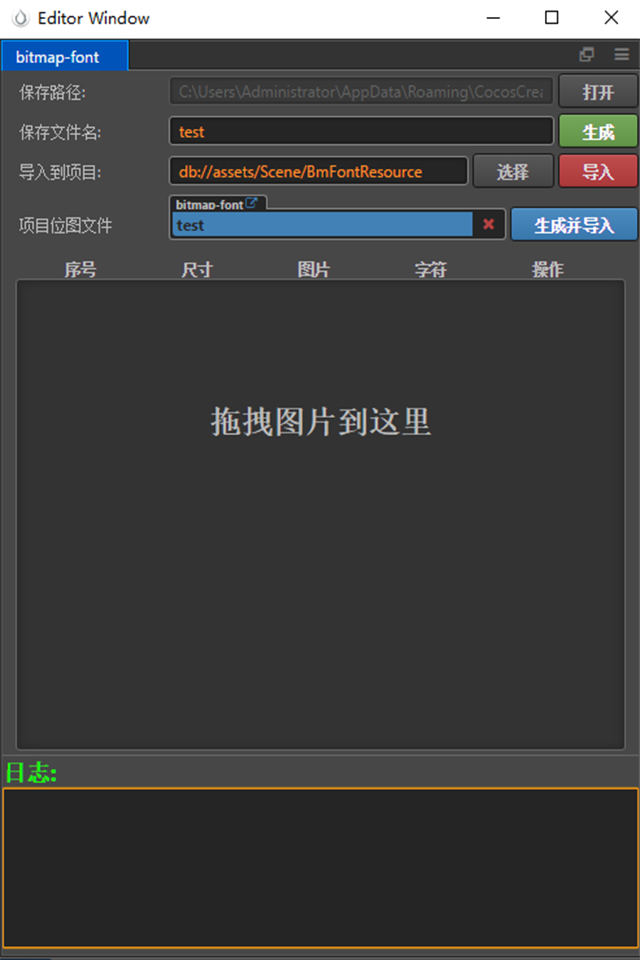
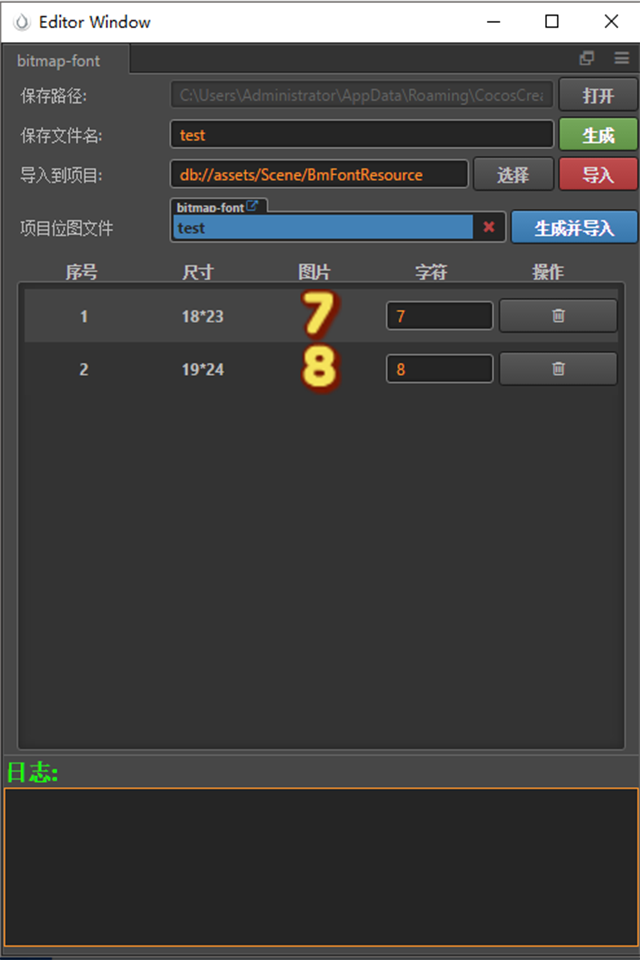
更新bmfont的文档

diff --git a/docs/bitmap-font/README.md b/docs/bitmap-font/README.md
@@ -1,65 +1,33 @@
 # 说明
 游戏开发中经常会碰到制作BMFont字体的需求,市面上有很多专门的工具都在解决这个问题
-1. BMFont
+1. BMFont(交互挺糟心的！)
 2. Glyph Designer2（Mac+Win32）
-3. bmGlyph（Mac 68元）
-4. ShoeBox 的位图功能
+3. bmGlyph（Mac 68元，每天穷醒的路过）
+4. ShoeBox
+5. Littera
 
-作者本身仅仅使用过BMFont,不得不吐槽下这个工具的交互,导入图片,指定ANSCII码,每次制作BMFont字体都特别麻烦
+## 插件特色
 
-所以插件本身就是在简化指定ANSCII码的操作,并简单的和creator进行了工作流整合,插件功能比较薄弱,但是能简单满足制作bmfont的一些需求,后续功能追加还需要时间去打磨完善.
+参考了大量的市面主流同类型软件，结合cocos creator进行了深度定制，包含了小王子的满满诚意！
 
+- 支持使用字符图片生成font位图文件，使用更简单，so easy! [点击跳转到使用文档](./Image.md)
 ![](../../assets/bmfont/scene2.png)
-# 使用
-打开菜单：**扩展**=》**BitMap字体工具**
 
-在UI界面上可以看到几个需要填写的参数
-- 存放路径:生成的fnt,png图片保存的位置,为了方便起见,插件默认指定了一个位置
-- 保存文件名: 生成的fnt,png的文件名
-- 导入到项目: 这个参数必须指定在项目的assets目录下,'导入'操作就是将生成的png,fnt导入到指定的项目位置
-- 项目位图文件: 更新项目位图文件时使用,和creator无缝对接使用
-
-# 动态图教程
-## 当生成单独的位图文件时
-![](../../assets/bmfont/gen1.gif)
-## 当和creator配合使用,更新项目位图文件时
-![](../../assets/bmfont/gen2.gif)
-
-## 彩蛋
-- 插件对你导入的图片,按照字母或者数字顺序进行了简单的排序,这样方便你查看,符合人的阅读习惯,记住,排序的前提是你对图片名字进行了有规律的命名
-- 输入bitmap的字符时,插件进行了字符校验,比如你输入了11322324,那么插件永远只会截取第一个字符1,之后的都会被忽略,至于为什么,你需要了解下什么是bitmap-font!
+- 支持使用ttf字体文件生成font位图文件，重点支持了对字体进行描边、阴影、模糊、纹理等功能，别人有的咱也不能落下！[点击跳转到使用文档](./ttf.md)
+![](../../assets/bmfont/scene4.png)
 
 
-## 如何导入位图?
-在插件中间区域就是导入的位图字体信息,导入一张图片,只需要拖拽图片到该区域即可   
-需要注意的是
-- 目前插件只能识别png图片,如果指定重复路径的图片文件,那么插件将不会导入.
-- 只能导入非项目图片，所以，请不要把单个位图导入到项目中，然后再拖入到插件，这样是识别不到的
-
-## 导入位图之后
-导入位图之后,可以在列表中看到该图片的详细信息,在字符一栏可以输入该图片对应的字符,在输入完毕字符后,插件会自动进行校验,如果是空字符或者输入了重复的字符,那么字符栏颜色会变红,方便识别问题
-
-## 如何删除字符
-- 如果不小心导入了其他图片,那么可以在操作列点击**删除**按钮,或者在该行任意位置**右键=>删除** 进行删除
-- 删除全部: **右键=> 删除全部** 会删除当前拖入的所有字符图片
+# 常见问题
 
 ## 为什么我生成的bmfont文件不能使用？
 bmfont其实是一个标准，需要2个文件配合使用：*.fnt、*.png，这两个文件一并导入到项目中即可使用，需要注意的是2个文件必须在同一个目录下！
 请使用插件自己生成的2个文件，不要使用任何其他来源的文件，因为不确保其他来源的文件有效
 
-## 如何批量导入字符   
-
-插件有个很细心的功能,就是在设置默认字符的时候,会自动取文件名的第一个字符,围绕着这个小功能批量导入字符就变的很简单了    
-- 对所有的散图进行命名,记住第一个字符尽量和图片的内容一致,比如你只做了一张"牛"的字体图片,那么这张图片名就叫做"牛.png"
-- 拖拽图片到插件,导入后插件会自动取文件名第一个字符,简单检查下所有配置,对标红的配置修改下
-- 输出图片即可完成新的fnt
 
 ## 其他
-如果使用过程中遇到任何问题,请仔细观察输出的日志信息,如果还有疑问,欢迎联系QQ群**224756137**
+如果使用过程中遇到任何问题,欢迎联系QQ群**224756137**
 
 ## 后续开发计划
-- ttf直接导入+备用ttf
-- 描边+填充+阴影
-- 纯色+渐变+纹理+(材质)
+- 集成免费的ttf字体
 - Custom Image
 - Char单独设置offset和xadvance

diff --git a/docs/bitmap-font/Image.md b/docs/bitmap-font/Image.md
@@ -1,0 +1,48 @@
+# 说明
+该功能主要是将分散的字符图集，输出为`*.fnt`合`*.png`
+
+# 入口
+打开菜单：**扩展**=》**BitMap字体工具**=》字体图集(IMAGE)
+
+
+# 使用教程
+
+![](../../assets/bmfont/scene2.png)
+
+在UI界面上可以看到几个需要填写的参数
+- 存放路径:生成的fnt,png图片保存的位置,为了方便起见,插件默认指定了一个位置
+- 保存文件名: 生成的fnt,png的文件名
+- 导入到项目: 这个参数必须指定在项目的assets目录下,'导入'操作就是将生成的png,fnt导入到指定的项目位置
+- 项目位图文件: 更新项目位图文件时使用,和creator无缝对接使用
+
+# 动态图教程
+## 当生成单独的位图文件时
+![](../../assets/bmfont/gen1.gif)
+## 当和creator配合使用,更新项目位图文件时
+![](../../assets/bmfont/gen2.gif)
+
+## 贴心的功能点
+- 插件对你导入的图片,按照字母或者数字顺序进行了简单的排序,这样方便你查看,符合人的阅读习惯,记住,排序的前提是你对图片名字进行了有规律的命名
+- 输入bitmap的字符时,插件进行了字符校验,比如你输入了11322324,那么插件永远只会截取第一个字符1,之后的都会被忽略,至于为什么,你需要了解下什么是bitmap-font!
+
+
+## 如何导入位图?
+在插件中间区域就是导入的位图字体信息,导入一张图片,只需要拖拽磁盘上的图片到该区域即可   
+需要注意的是
+- 目前插件只能识别png图片,如果指定重复路径的图片文件,那么插件将不会导入.
+- 现在已经支持直接从creator编辑器里面的资源管理器中进行图片的拖拽，但是有可能插件对此功能支持的不是很到位，部分creator版本会抛出异常，非常不建议将散图放在项目的资源管理器中。
+
+## 导入位图之后
+导入位图之后,可以在列表中看到该图片的详细信息,在字符一栏可以输入该图片对应的字符,在输入完毕字符后,插件会自动进行校验,如果是空字符或者输入了重复的字符,那么字符栏颜色会变红,方便识别问题
+
+## 如何删除字符
+- 如果不小心导入了其他图片,那么可以在操作列点击**删除**按钮,或者在该行任意位置**右键=>删除** 进行删除
+- 删除全部: **右键=> 删除全部** 会删除当前拖入的所有字符图片
+
+
+## 如何批量导入字符   
+
+插件有个很细心的功能,就是在设置默认字符的时候,会自动取文件名的第一个字符,围绕着这个小功能批量导入字符就变的很简单了    
+- 对所有的散图进行命名,记住第一个字符尽量和图片的内容一致,比如你只做了一张"牛"的字体图片,那么这张图片名就叫做"牛.png"
+- 拖拽图片到插件,导入后插件会自动取文件名第一个字符,简单检查下所有配置,对标红的配置修改下
+- 输出图片即可完成新的fnt

diff --git a/docs/bitmap-font/ttf.md b/docs/bitmap-font/ttf.md
@@ -1,0 +1,15 @@
+# 说明
+该功能主要是将指定的TTF字体，经过设计加工，输出为`*.fnt`合`*.png`
+
+# 入口
+打开菜单：**扩展**=》**BitMap字体工具**=》字体文件(TTF)
+
+
+# 使用教程
+
+![](../../assets/bmfont/scene4.png)
+
+# 贴心的功能点
+- 拖拽TTF文件到画布区域，直接替换使用的字体
+- 拖拽png、jpeg、jpg的格式的图片，直接替换字体的纹理材质
+- 鼠标移动到字符上，会显示出红色的矩形框

diff --git a/SUMMARY.md b/SUMMARY.md
@@ -27,6 +27,8 @@
     - [常见问题](docs/cc-inspector-v2/issue.md)
     - [版本列表](docs/cc-inspector-v2/version.md)
 - [BM-Font](docs/bitmap-font/README.md)
+    - [字体图集](docs/bitmap-font/Image.md)
+    - [字体文件](docs/bitmap-font/ttf.md)
 - [热更新插件](docs/hot-update-tools/README.md)
     - [更新记录](docs/hot-update-tools/UPDATE.md)
     - [常见问题](docs/hot-update-tools/CommonIssue.md)
